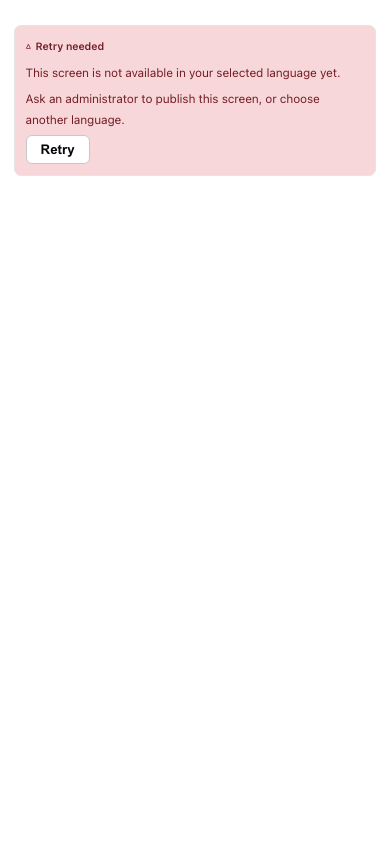
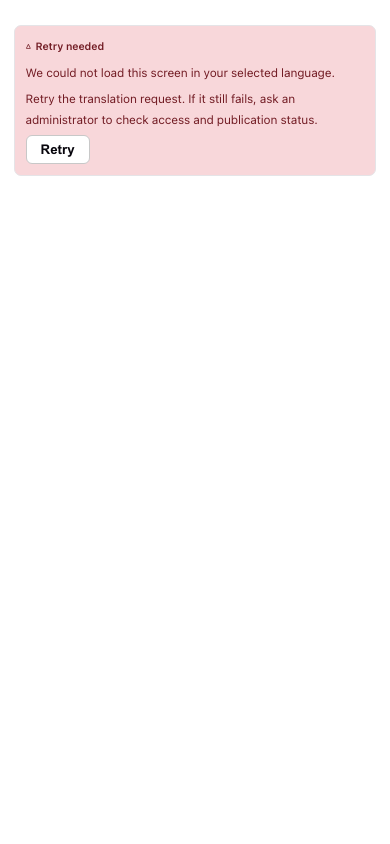
docs(i18n): refresh exact-head visual evidence

Changed region(s): [[0.0615, 0.0616, 0.8615, 0.154]]

diff --git a/docs/product-technical-gap-baseline.md b/docs/product-technical-gap-baseline.md
@@ -10,12 +10,13 @@
 > readiness. The authenticated `GET /api/translations/{screen_key}` API is
 > implemented on the candidate branch. That is candidate implementation
 > evidence, not protected-main, deployed, or release evidence.
-> A stacked Customer Master consumer candidate now exists at implementation
-> head `cb093960d43e95cdfb1d9ed491e920e2106305db` on top of PR #929's
+> A stacked Customer Master consumer candidate now exists at exact head
+> `cb093960d43e95cdfb1d9ed491e920e2106305db` on top of PR #929's
 > exact head `f07a755972e38b4b2a961ab11acd9d3abb229967`. It admits all eight
 > locale tags, fetches the authenticated `customer-master` resource before
 > customer data, rejects incomplete screen projections, ignores late responses
-> from a previous locale, and shows an actionable retry state instead of
+> from a previous locale or authorization identity, and shows an actionable
+> retry state instead of
 > rendering bundled Customer Master copy. Review `5119233938` found that the
 > retry shell incorrectly diagnosed every transport/auth/permission/not-found/
 > service exception as an unpublished translation. RED
@@ -24,6 +25,10 @@
 > cause-neutral while retaining one concrete retry action. This stacked branch
 > is not protected-main, hosted-product-GREEN, authenticated PostgreSQL, or
 > deployed evidence.
+> Current-head local evidence is 59 frontend test files / 538 tests, lint,
+> production build, Storybook build, nine focused Python contract tests, and
+> freshly inspected 1440 x 900 plus 390 x 844 retry-state captures. These local
+> results do not satisfy the protected delivery boundary.
 >
 > Two adjacent candidates remain outside protected `main`: PR #911 at
 > `5d40eed35a0b6e0d182397f8d02b29c38e9bdd17` replaces the synchronous
@@ -49,9 +54,10 @@
 > `en/ko/zh/ja/vi`; `es/de/fr` are not first-class frontend locales. No material
 > SPA screen has yet been released on a published eight-locale ledger resource.
 > The stacked Customer Master candidate covers API admission plus loading and
-> retry rendering. Its earlier 1440×900 and 390×844 Storybook captures predate
-> the current auth-bound/cause-neutral repair head and are predecessor evidence,
-> not current-head browser acceptance. It does not contain reviewed eight-locale
+> retry rendering. The 1440×900 and 390×844 Storybook captures were regenerated
+> and inspected after the current auth-bound/cause-neutral repair. They prove
+> only the synthetic retry shell, not authenticated browser acceptance. The
+> candidate does not contain reviewed eight-locale
 > product copy or authenticated PostgreSQL normal/empty/permission evidence.
 > There is no release evidence for normal, loading, empty, error, permission,
 > responsive, keyboard/focus/screen-reader, CJK text expansion, or font fallback
@@ -201,7 +207,7 @@
   `frontend/src/i18n.ts`, `frontend/src/App.tsx`,
   `frontend/src/components/ScreenTranslationGate.tsx`,
   `frontend/src/components/ScreenTranslationGate.test.tsx`, and
-  `tests/test_customer_master_translation_auth_gate_contract.py`; predecessor
-  visual evidence is
+  `tests/test_customer_master_translation_auth_gate_contract.py`; current-head
+  synthetic visual evidence is
   `docs/screenshots/customer-master-translation-gate-{desktop,mobile}.png`.
 - Historical delivery/gap overlays: `docs/product-technical-gap-baseline-history-2026-09-04.md`.
